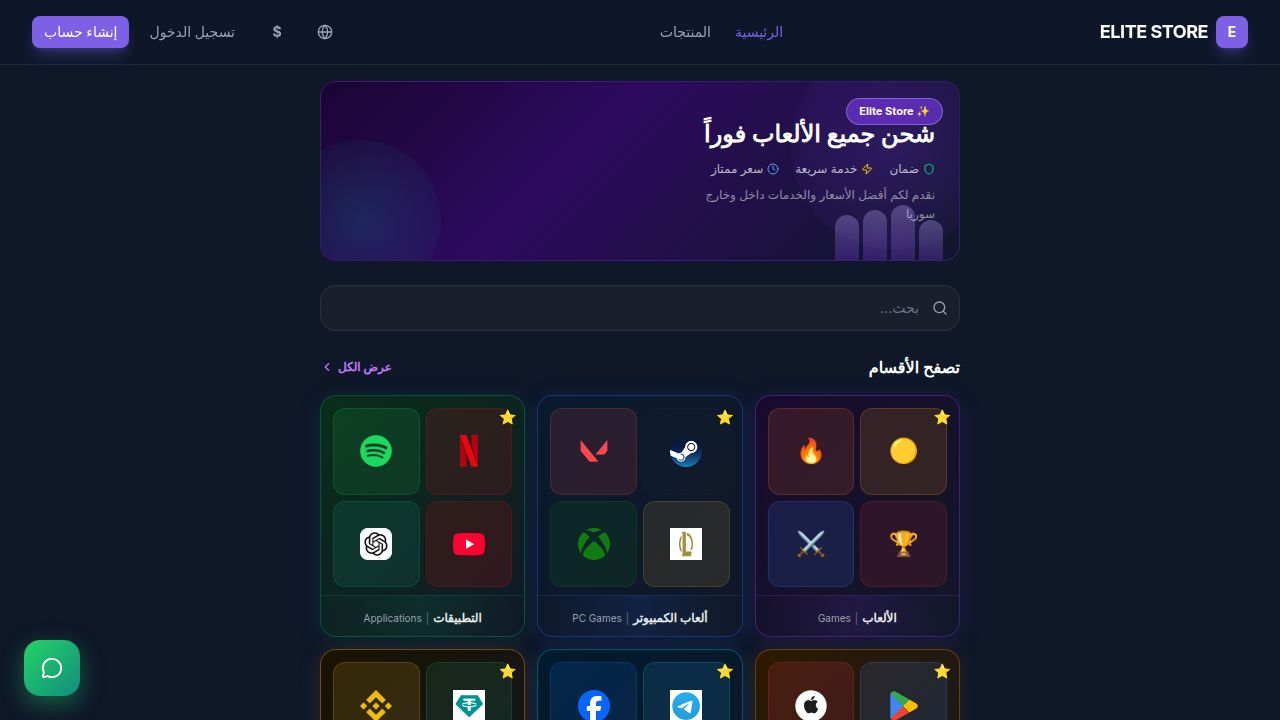
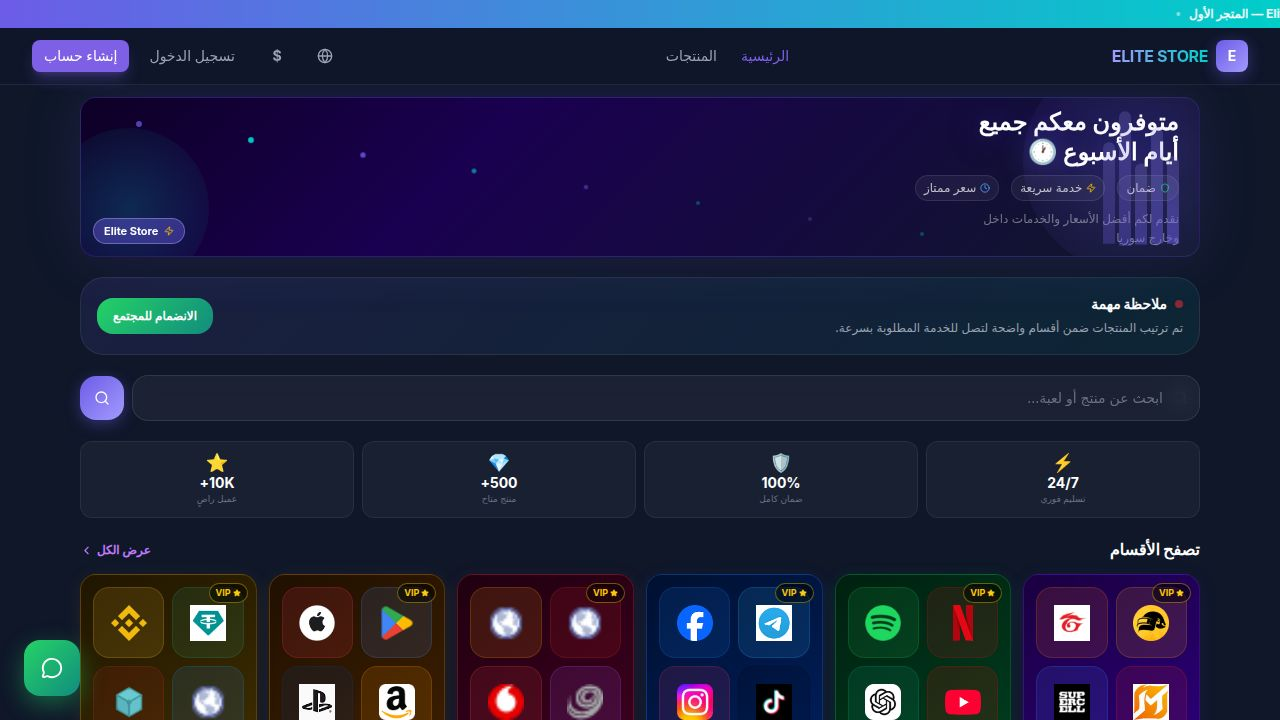
Organize home and product pages with improved layouts and routing
Update home page category display to a responsive grid with fixed routing. Enhance products page to group items by category with fallback support and provision development database with initial data.

Replit-Commit-Author: Agent
Replit-Commit-Session-Id: 4bfcd8e3-9e83-4144-b731-f6827fef0100
Replit-Commit-Checkpoint-Type: full_checkpoint
Replit-Commit-Event-Id: 3299c5fa-ce21-4d42-b8b1-33ad766a36d1
Replit-Commit-Screenshot-Url: https://storage.googleapis.com/screenshot-production-us-central1/0ff45dc6-fcc9-42ea-82bf-f3d46efabfd6/4bfcd8e3-9e83-4144-b731-f6827fef0100/6bnoYxr
Replit-Helium-Checkpoint-Created: true

diff --git a/artifacts/elite-store/src/pages/Products.tsx b/artifacts/elite-store/src/pages/Products.tsx
@@ -132,6 +132,52 @@ const KNOWN_GAMES: { keywords: string[]; info: GameInfo }[] = [
     keywords: ['hay day', 'هاي داي'],
     info: { nameEn: 'Hay Day', nameAr: 'هاي داي', grad: 'from-lime-500/50 to-green-800/30', dot: '#84cc16', icon: '🌻' },
   },
+  {
+    keywords: ['telegram', 'تيليجرام', 'تلغرام', 'تيليغرام', 'whatsapp', 'واتساب', 'facebook', 'فيسبوك', 'instagram', 'انستغرام', 'tiktok', 'تيك توك', 'social'],
+    info: { nameEn: 'Social Media', nameAr: 'السوشيال ميديا', grad: 'from-sky-500/50 to-blue-800/30', dot: '#0ea5e9', icon: '📱' },
+  },
+  {
+    keywords: ['netflix', 'spotify', 'youtube premium', 'شاهد', 'osn', 'subscription', 'premium', 'اشتراك', 'اشتراكات'],
+    info: { nameEn: 'Subscriptions', nameAr: 'الاشتراكات', grad: 'from-fuchsia-500/50 to-purple-900/30', dot: '#d946ef', icon: '💎' },
+  },
+  {
+    keywords: ['chatgpt', 'openai', 'midjourney', 'gemini', 'claude', 'ذكاء', 'ai', 'artificial'],
+    info: { nameEn: 'AI Tools', nameAr: 'الذكاء الاصطناعي', grad: 'from-violet-500/50 to-indigo-900/30', dot: '#8b5cf6', icon: '🤖' },
+  },
+  {
+    keywords: ['canva', 'adobe', 'photoshop', 'figma', 'capcut', 'design', 'تصميم'],
+    info: { nameEn: 'Design Tools', nameAr: 'برامج التصميم', grad: 'from-pink-500/50 to-rose-900/30', dot: '#ec4899', icon: '🎨' },
+  },
+  {
+    keywords: ['syriatel', 'سيريتل', 'mtn', 'رصيد', 'اتصالات', 'telecom', 'وحدات'],
+    info: { nameEn: 'Telecom', nameAr: 'الرصيد والاتصالات', grad: 'from-red-500/50 to-orange-900/30', dot: '#ef4444', icon: '📶' },
+  },
+  {
+    keywords: ['usdt', 'tether', 'binance', 'payeer', 'perfect money', 'crypto', 'عملة', 'عملات'],
+    info: { nameEn: 'Crypto', nameAr: 'العملات الرقمية', grad: 'from-yellow-500/50 to-amber-900/30', dot: '#eab308', icon: '₮' },
+  },
+  {
+    keywords: ['number', 'numbers', 'رقم', 'ارقام', 'أرقام', 'sms', 'activation', 'تفعيل'],
+    info: { nameEn: 'Numbers', nameAr: 'الأرقام', grad: 'from-emerald-500/50 to-green-900/30', dot: '#10b981', icon: '#' },
+  },
+  {
+    keywords: ['account', 'accounts', 'حساب', 'حسابات', 'جاهز', 'جامعة'],
+    info: { nameEn: 'Ready Accounts', nameAr: 'الحسابات الجاهزة', grad: 'from-orange-500/50 to-amber-900/30', dot: '#f97316', icon: '👥' },
+  },
+];
+
+const FALLBACK_GROUPS: { category: string; info: GameInfo & { key: string } }[] = [
+  { category: 'mobile_games', info: { nameEn: 'Mobile Games', nameAr: 'ألعاب الموبايل', grad: 'from-violet-600/50 to-purple-900/30', dot: '#7c3aed', icon: '🎮', key: 'mobile_games' } },
+  { category: 'pc_games', info: { nameEn: 'PC Games', nameAr: 'ألعاب الكمبيوتر', grad: 'from-blue-600/50 to-cyan-900/30', dot: '#2563eb', icon: '🖥', key: 'pc_games' } },
+  { category: 'services', info: { nameEn: 'Social Media', nameAr: 'السوشيال ميديا', grad: 'from-sky-500/50 to-blue-800/30', dot: '#0ea5e9', icon: '📱', key: 'Social Media' } },
+  { category: 'services', info: { nameEn: 'Subscriptions', nameAr: 'الاشتراكات', grad: 'from-fuchsia-500/50 to-purple-900/30', dot: '#d946ef', icon: '💎', key: 'Subscriptions' } },
+  { category: 'services', info: { nameEn: 'AI Tools', nameAr: 'الذكاء الاصطناعي', grad: 'from-violet-500/50 to-indigo-900/30', dot: '#8b5cf6', icon: '🤖', key: 'AI Tools' } },
+  { category: 'services', info: { nameEn: 'Design Tools', nameAr: 'برامج التصميم', grad: 'from-pink-500/50 to-rose-900/30', dot: '#ec4899', icon: '🎨', key: 'Design Tools' } },
+  { category: 'general', info: { nameEn: 'Telecom', nameAr: 'الرصيد والاتصالات', grad: 'from-red-500/50 to-orange-900/30', dot: '#ef4444', icon: '📶', key: 'Telecom' } },
+  { category: 'gift_cards', info: { nameEn: 'Gift Cards', nameAr: 'البطاقات', grad: 'from-amber-500/50 to-orange-700/30', dot: '#d97706', icon: '🎁', key: 'gift_cards' } },
+  { category: 'general', info: { nameEn: 'Crypto', nameAr: 'العملات الرقمية', grad: 'from-yellow-500/50 to-amber-900/30', dot: '#eab308', icon: '₮', key: 'Crypto' } },
+  { category: 'general', info: { nameEn: 'Numbers', nameAr: 'الأرقام', grad: 'from-emerald-500/50 to-green-900/30', dot: '#10b981', icon: '#', key: 'Numbers' } },
+  { category: 'general', info: { nameEn: 'Ready Accounts', nameAr: 'الحسابات الجاهزة', grad: 'from-orange-500/50 to-amber-900/30', dot: '#f97316', icon: '👥', key: 'Ready Accounts' } },
 ];
 
 function getGameInfo(productName: string, category: string): GameInfo & { key: string } {
@@ -141,9 +187,11 @@ function getGameInfo(productName: string, category: string): GameInfo & { key: s
       return { ...game.info, key: game.info.nameEn };
     }
   }
-  // fallback by category
+  if (category === 'mobile_games') return { nameEn: 'Mobile Games', nameAr: 'ألعاب الموبايل', grad: 'from-violet-600/50 to-purple-900/30', dot: '#7c3aed', icon: '🎮', key: 'mobile_games' };
+  if (category === 'pc_games') return { nameEn: 'PC Games', nameAr: 'ألعاب الكمبيوتر', grad: 'from-blue-600/50 to-cyan-900/30', dot: '#2563eb', icon: '🖥', key: 'pc_games' };
   if (category === 'gift_cards') return { nameEn: 'Gift Cards', nameAr: 'بطاقات هدايا', grad: 'from-amber-500/50 to-orange-700/30', dot: '#d97706', icon: '🎁', key: 'gift_cards' };
   if (category === 'services') return { nameEn: 'Services', nameAr: 'خدمات', grad: 'from-emerald-500/50 to-teal-700/30', dot: '#059669', icon: '⚡', key: 'services' };
+  if (category === 'general') return { nameEn: 'General Services', nameAr: 'خدمات متنوعة', grad: 'from-rose-500/50 to-pink-800/30', dot: '#f43f5e', icon: '🛒', key: 'general' };
   return { nameEn: productName, nameAr: productName, grad: 'from-primary/30 to-secondary/10', dot: '#6c5ce7', icon: '🎮', key: productName };
 }
 
@@ -206,7 +254,7 @@ function GameCard({ game, count, onClick, image }: {
         <div className="absolute top-2.5 left-2.5 flex items-center gap-1 px-2 py-1 rounded-full text-[10px] font-bold"
           style={{ background: `${game.dot}22`, border: `1px solid ${game.dot}44`, color: game.dot }}>
           <Package size={9} />
-          {count} {lang === 'ar' ? 'باقة' : 'pkg'}
+          {count > 0 ? `${count} ${lang === 'ar' ? 'باقة' : 'pkg'}` : (lang === 'ar' ? 'قسم' : 'section')}
         </div>
       </div>
 
@@ -369,7 +417,10 @@ export default function Products() {
 
   // Group all products by game
   const games = useMemo(() => {
-    if (!allData?.products) return [];
+    const fallback = FALLBACK_GROUPS
+      .filter(g => !activeCategory || g.category === activeCategory)
+      .map(g => ({ info: g.info, count: 0, image: undefined }));
+    if (!allData?.products || allData.products.length === 0) return fallback;
     const map = new Map<string, { info: GameInfo; count: number; image?: string }>();
     for (const p of allData.products) {
       const info = getGameInfo(p.name, p.category ?? 'general');
@@ -381,8 +432,15 @@ export default function Products() {
         map.set(info.key, { info, count: 1, image: p.image ?? undefined });
       }
     }
-    return Array.from(map.values()).sort((a, b) => b.count - a.count);
-  }, [allData?.products]);
+    const priority = ['Mobile Games', 'PC Games', 'Social Media', 'Subscriptions', 'AI Tools', 'Design Tools', 'Telecom', 'Gift Cards', 'Crypto', 'Numbers', 'Ready Accounts', 'Services', 'General Services'];
+    const grouped = Array.from(map.values()).sort((a, b) => {
+      const ai = priority.indexOf(a.info.nameEn);
+      const bi = priority.indexOf(b.info.nameEn);
+      if (ai !== -1 || bi !== -1) return (ai === -1 ? 999 : ai) - (bi === -1 ? 999 : bi);
+      return b.count - a.count;
+    });
+    return grouped.length > 0 ? grouped : fallback;
+  }, [allData?.products, activeCategory]);
 
   const products = gameData?.products ?? [];
   const total = gameData?.total ?? 0;
@@ -394,7 +452,6 @@ export default function Products() {
   };
 
   const handleGameSelect = (gameKey: string) => {
-    // Find the English keyword to use as search
     const game = KNOWN_GAMES.find(g => g.info.nameEn === gameKey);
     if (game) {
       setSelectedGame(game.keywords[0]);
@@ -411,9 +468,11 @@ export default function Products() {
 
   const selectedGameInfo = useMemo(() => {
     if (!selectedGame) return null;
-    const found = KNOWN_GAMES.find(g => g.keywords[0] === selectedGame);
-    return found?.info ?? null;
-  }, [selectedGame]);
+    const found = KNOWN_GAMES.find(g => g.keywords.includes(selectedGame) || g.info.nameEn === selectedGame);
+    if (found?.info) return found.info;
+    const grouped = games.find(g => g.info.key === selectedGame || g.info.nameEn === selectedGame);
+    return grouped?.info ?? getGameInfo(selectedGame, activeCategory || 'general');
+  }, [selectedGame, games, activeCategory]);
 
   return (
     <PublicLayout>
@@ -441,7 +500,10 @@ export default function Products() {
         </AnimatePresence>
 
         {/* Header */}
-        <div className="mb-6">
+        <div className="mb-6 rounded-3xl p-5 overflow-hidden relative" style={{ background: 'linear-gradient(135deg, rgba(108,92,231,0.16), rgba(0,206,201,0.08), rgba(17,24,39,0.72))', border: '1px solid rgba(255,255,255,0.08)' }}>
+          <div className="absolute -top-16 -left-16 h-40 w-40 rounded-full bg-primary/20 blur-3xl" />
+          <div className="absolute -bottom-16 -right-16 h-40 w-40 rounded-full bg-secondary/10 blur-3xl" />
+          <div className="relative">
           <h1 className="font-heading text-3xl font-black mb-1">
             {selectedGame && selectedGameInfo
               ? (lang === 'ar' ? selectedGameInfo.nameAr : selectedGameInfo.nameEn)
@@ -449,9 +511,10 @@ export default function Products() {
           </h1>
           <p className="text-muted-foreground text-sm">
             {showingGames
-              ? (lang === 'ar' ? `${games.length} لعبة متاحة` : `${games.length} games available`)
+              ? (lang === 'ar' ? `${games.length} قسم مرتب للمنتجات` : `${games.length} organized product groups`)
               : (lang === 'ar' ? `${total} منتج متاح` : `${total} products available`)}
           </p>
+          </div>
         </div>
 
         {/* Search */}

diff --git a/artifacts/elite-store/src/pages/Home.tsx b/artifacts/elite-store/src/pages/Home.tsx
@@ -11,6 +11,34 @@ const BASE = import.meta.env.BASE_URL?.replace(/\/$/, '') || '';
 const WA_GROUP = 'https://chat.whatsapp.com/DmATlEZYLFgHbWuo4HOVay?mode=gi_t';
 const WA_SUPPORT = 'https://wa.me/963992718483';
 
+const CATEGORY_ROUTE_OVERRIDES: Record<string, string> = {
+  games: '/products?category=mobile_games',
+  mobile_games: '/products?category=mobile_games',
+  pc_games: '/products?category=pc_games',
+  apps: '/products?category=services&q=apps',
+  social: '/products?category=services&q=social',
+  telecom: '/products?category=general&q=telecom',
+  gift_cards: '/products?category=gift_cards',
+  crypto: '/products?category=general&q=crypto',
+  ai: '/products?category=services&q=ai',
+  subscriptions: '/products?category=services&q=premium',
+  design: '/products?category=services&q=design',
+  accounts: '/products?category=general&q=numbers',
+  wholesale: '/products?category=general&q=accounts',
+  services: '/products?category=services',
+  general: '/products?category=general',
+};
+
+function normalizeCategoryHref(cat: { id?: string | number; href?: string }) {
+  const id = String(cat.id ?? '');
+  if (CATEGORY_ROUTE_OVERRIDES[id]) return CATEGORY_ROUTE_OVERRIDES[id];
+  const href = cat.href ?? '';
+  if (href.includes('/products?category=services/products') || href.includes('q=telecomq=') || href.includes('q=cryptoq=') || href.includes('q=numbersq=') || href.includes('q=accountsq=')) {
+    return CATEGORY_ROUTE_OVERRIDES.general;
+  }
+  return href || '/products';
+}
+
 // ─── Static fallback categories (used if API fails) ──────────
 const CATEGORIES_FALLBACK = [
   {
@@ -279,7 +307,7 @@ function apiToCat(c: any): CatDisplay {
     id: c.id,
     nameAr: c.nameAr,
     nameEn: c.nameEn,
-    href: c.href,
+    href: normalizeCategoryHref(c),
     color: c.color,
     bg: c.bgGradient,
     icons: [
@@ -305,12 +333,12 @@ function CategoryCard({ cat, index }: { cat: CatDisplay; index: number }) {
     >
       <Link href={cat.href} className="block">
         <div
-          className="relative rounded-2xl overflow-hidden"
+          className="relative rounded-2xl overflow-hidden shine-card"
           style={{
             background: cat.bg,
             border: `1px solid ${cat.color}40`,
             boxShadow: `0 4px 20px ${cat.color}18`,
-            minHeight: 130,
+            minHeight: 150,
           }}
         >
           {/* VIP Star badge */}
@@ -323,12 +351,12 @@ function CategoryCard({ cat, index }: { cat: CatDisplay; index: number }) {
           </div>
 
           {/* Icon grid 2×2 */}
-          <div className="p-2.5 pb-1">
-            <div className="grid grid-cols-2 gap-1.5">
+          <div className="p-3 pb-1.5">
+            <div className="grid grid-cols-2 gap-2">
               {cat.icons.map((icon, i) => (
                 <div
                   key={i}
-                  className="aspect-square rounded-xl flex items-center justify-center overflow-hidden"
+                  className="aspect-square rounded-2xl flex items-center justify-center overflow-hidden"
                   style={{
                     background: `${icon.bg}22`,
                     border: `1px solid ${icon.bg}33`,
@@ -338,7 +366,7 @@ function CategoryCard({ cat, index }: { cat: CatDisplay; index: number }) {
                     <img
                       src={icon.img}
                       alt={icon.label}
-                      className="w-7 h-7 object-contain"
+                      className="w-9 h-9 object-contain"
                       onError={() => setImgErrors(s => new Set([...s, i]))}
                     />
                   ) : (
@@ -351,14 +379,14 @@ function CategoryCard({ cat, index }: { cat: CatDisplay; index: number }) {
 
           {/* Category name strip */}
           <div
-            className="w-full text-center py-2 px-2"
+            className="w-full text-center py-2.5 px-2"
             style={{
               background: `linear-gradient(0deg, ${cat.color}33 0%, transparent 100%)`,
               borderTop: `1px solid ${cat.color}30`,
             }}
           >
-            <p className="text-[11px] font-black text-white leading-none">{cat.nameAr}</p>
-            <p className="text-[9px] text-white/40 mt-0.5">{cat.nameEn}</p>
+            <p className="text-[12px] font-black text-white leading-none">{cat.nameAr}</p>
+            <p className="text-[9px] text-white/45 mt-1">{cat.nameEn}</p>
           </div>
         </div>
       </Link>
@@ -461,7 +489,7 @@ function SearchBar() {
   const [q, setQ] = useState('');
 
   const go = () => {
-    if (q.trim()) window.location.href = `/products?q=${encodeURIComponent(q.trim())}`;
+    if (q.trim()) window.location.href = `${BASE}/products?q=${encodeURIComponent(q.trim())}`;
   };
 
   return (
@@ -525,6 +553,25 @@ function StatsBar() {
   );
 }
 
+function NoticePanel() {
+  return (
+    <div className="mb-5 rounded-3xl p-4" dir="rtl" style={{ background: 'linear-gradient(135deg, rgba(108,92,231,0.12), rgba(0,206,201,0.08))', border: '1px solid rgba(255,255,255,0.08)' }}>
+      <div className="flex flex-col sm:flex-row sm:items-center sm:justify-between gap-3">
+        <div>
+          <div className="flex items-center gap-2 mb-1">
+            <span className="w-2 h-2 rounded-full bg-red-500 animate-pulse" />
+            <h3 className="font-black text-white text-sm">ملاحظة مهمة</h3>
+          </div>
+          <p className="text-xs text-gray-400 leading-relaxed">تم ترتيب المنتجات ضمن أقسام واضحة لتصل للخدمة المطلوبة بسرعة.</p>
+        </div>
+        <a href={WA_GROUP} target="_blank" rel="noopener noreferrer" className="inline-flex items-center justify-center rounded-2xl px-4 py-2.5 text-xs font-black text-white transition-all hover:scale-[1.02] active:scale-95" style={{ background: 'linear-gradient(135deg, #25d366, #128c7e)' }}>
+          الانضمام للمجتمع
+        </a>
+      </div>
+    </div>
+  );
+}
+
 // ─── Page ─────────────────────────────────────────────────────
 export default function Home() {
   const { lang } = useLanguage();
@@ -546,10 +593,12 @@ export default function Home() {
   return (
     <PublicLayout>
       <WhatsAppPopup />
-      <div className="max-w-2xl mx-auto px-3 pt-3 pb-24">
+      <div className="max-w-6xl mx-auto px-3 sm:px-4 pt-3 pb-24">
 
         {/* Hero */}
         <HeroBanner />
+
+        <NoticePanel />
 
         {/* Search */}
         <SearchBar />
@@ -566,7 +615,7 @@ export default function Home() {
         </div>
 
         {/* 3-column category grid */}
-        <div className="grid grid-cols-3 gap-2.5 mb-6">
+        <div className="grid grid-cols-2 sm:grid-cols-3 lg:grid-cols-4 xl:grid-cols-6 gap-3 mb-6">
           {displayCats.map((cat, i) => (
             <CategoryCard key={cat.id} cat={cat} index={i} />
           ))}

diff --git a/replit.md b/replit.md
@@ -39,6 +39,8 @@ A professional Arabic-first digital products store and game top-up platform. Dar
 ### Features
 - Multi-language (AR/EN), multi-currency (USD/SYP/EUR)
 - 12 category cards on home page (3-column grid, 2×2 icon grid per card, VIP badge, gradient overlays) — matches shams4store.com style
+- Home page category layout updated to a wider responsive Shams4Store-style section grid with fixed category routing and a community notice panel
+- Products page now groups products into organized service/game sections first, with fallback section cards if product API data is unavailable
 - Animated announcement ticker at top of every page (gradient purple-cyan)
 - Stats bar on home page (24/7, 100%, 500+, 10K+)
 - Products synced from shams4store API (`SHAMS4STORE_API_TOKEN` env var, shared environment)
@@ -46,6 +48,7 @@ A professional Arabic-first digital products store and game top-up platform. Dar
 - Wallet system: Syriatel Cash (14816688) + ShamCash (wallet: zean677, ID: 5649dd63431812890980008b5b1c3d53)
 - Dynamic SYP rate from admin settings API (use-settings.ts hook, staleTime 5min)
 - Orders page with Arabic status tabs + date filter + search
+- Development PostgreSQL database was provisioned and schema pushed; API seed created default admin, demo user, 46 demo products, and 12 categories
 
 ### shams4store API
 - Base URL: `https://api.shams4store.com/client/api/`
